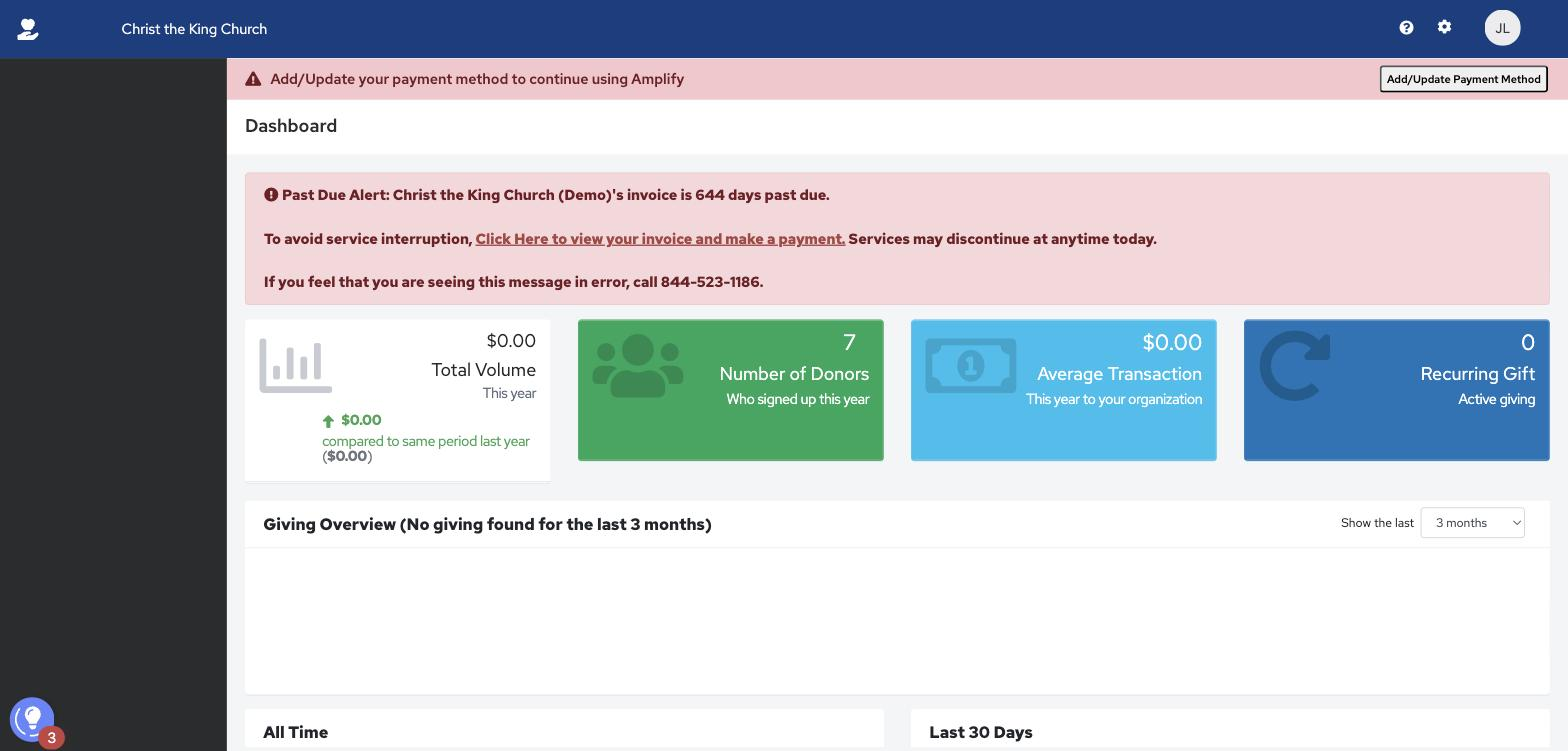
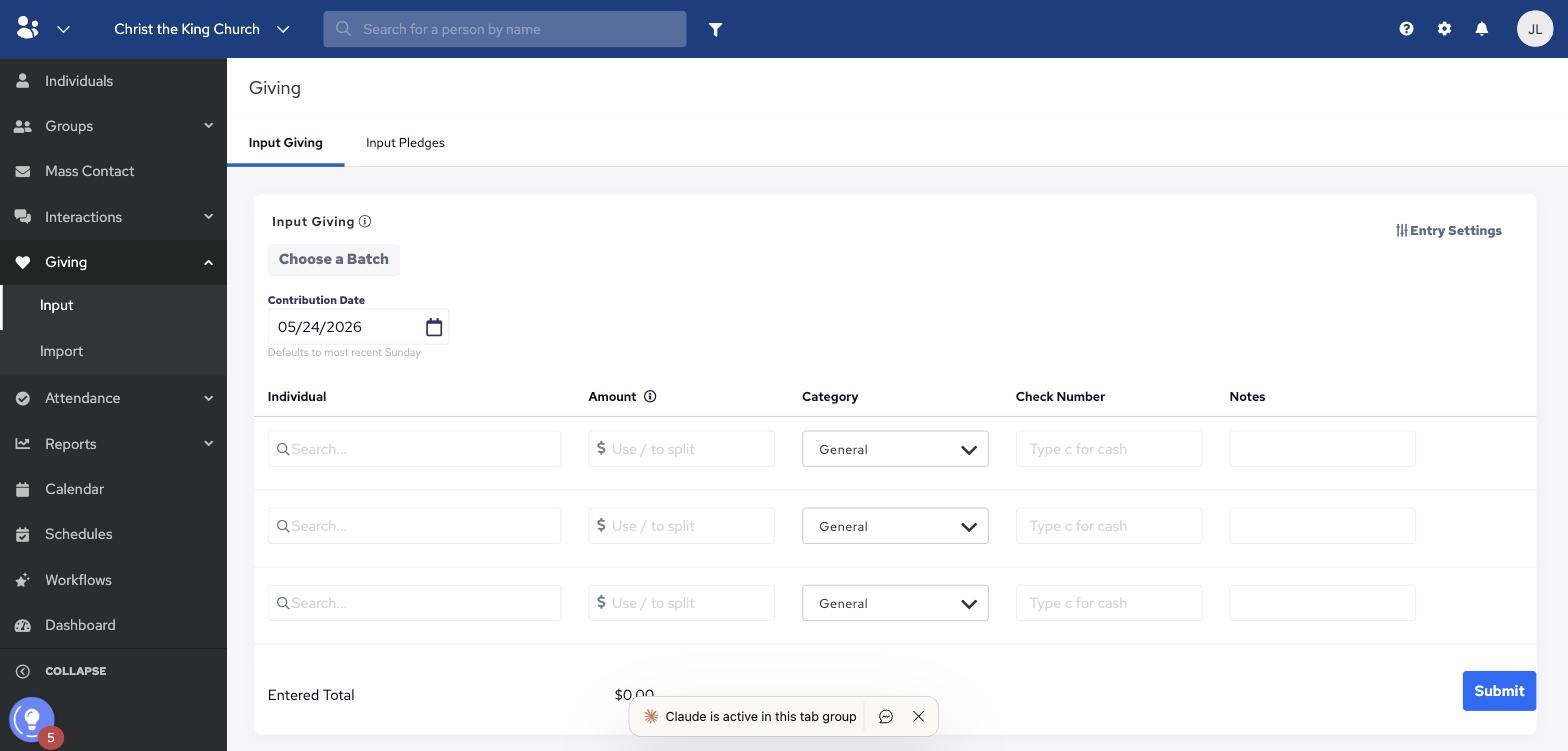
project oak update 12:46:30

diff --git a/project oak/index.html b/project oak/index.html
@@ -1331,7 +1331,7 @@ nav.dark-mode .menu-btn:hover { background: rgba(255,255,255,0.08); color: rgba(
   <div class="slide-footer"><span class="slide-footer-text">Vision · 5 of 11</span></div>
 </div>
 
-<!-- V6: What is missing — second part, new screenshots -->
+<!-- V6: Features and fragmentation — new screenshots -->
 <div class="slide" data-slide="v4b">
   <div class="slide-inner wide" style="max-width:1060px; gap:10px;">
     <p class="body-large anim d1" style="line-height:1.75; margin-top:0;">
